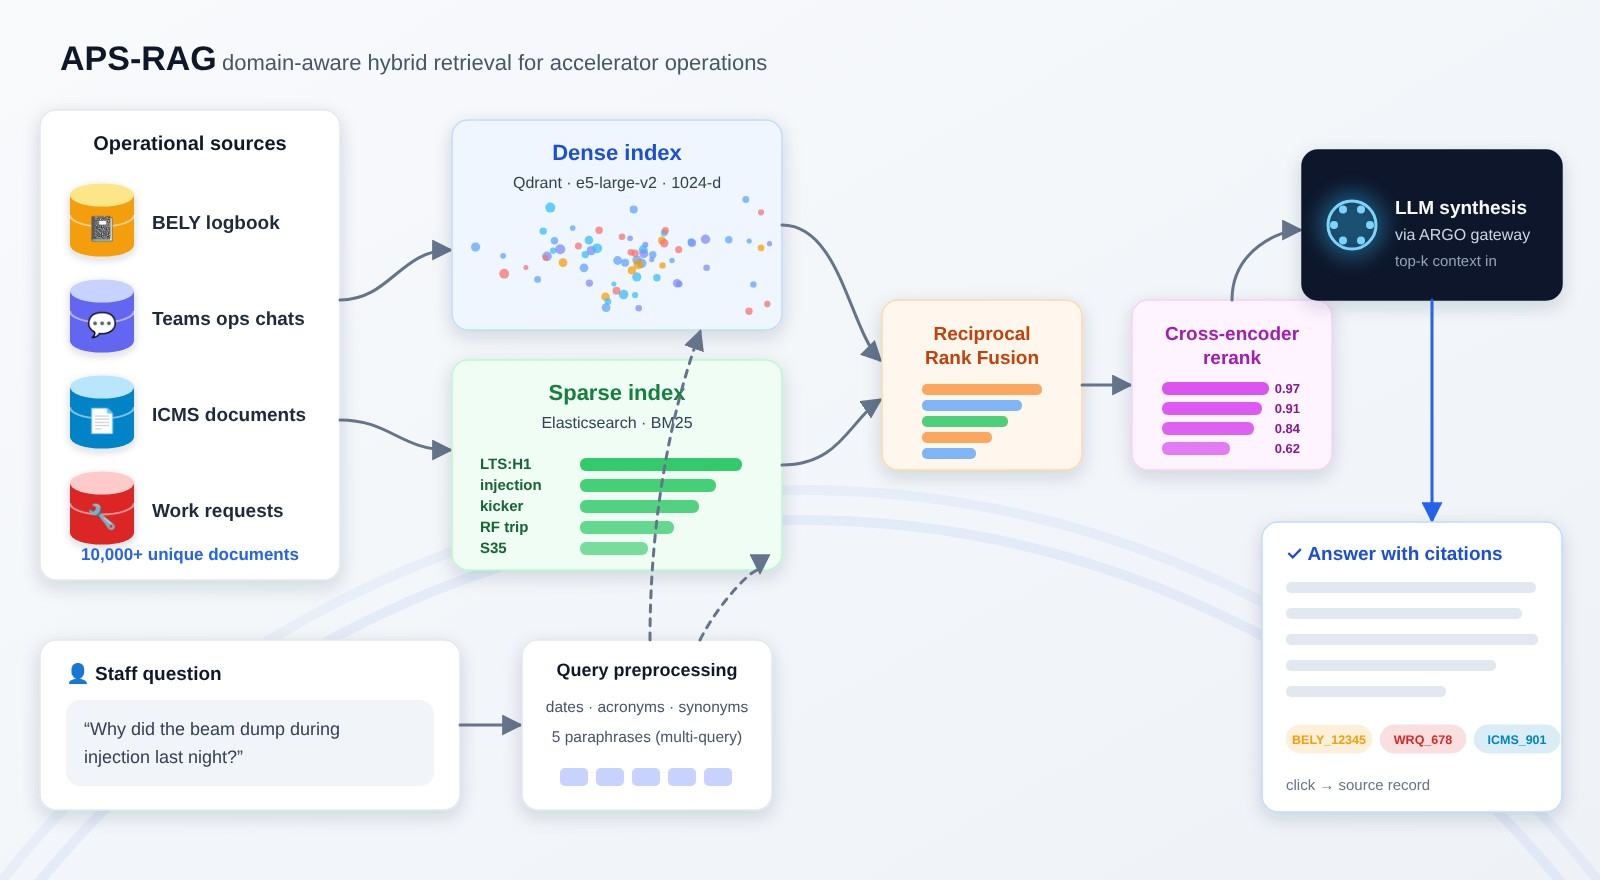
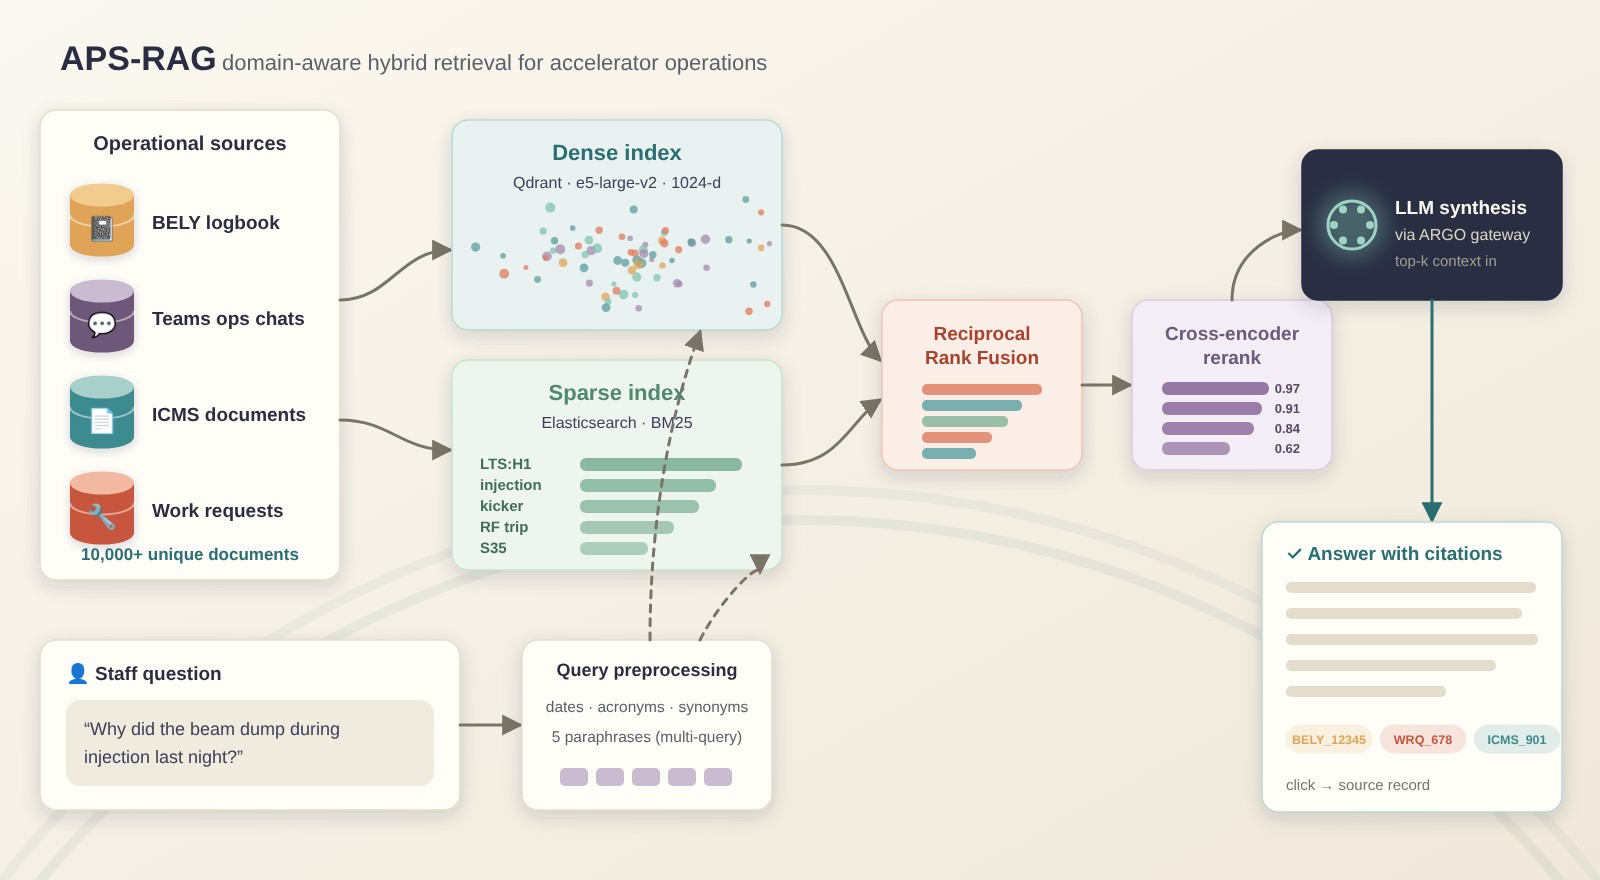
Warm palette for the IPAC'26 illustrations; new NAPAC 2025 thumbnail

diff --git a/index.html b/index.html
@@ -15,7 +15,7 @@
   <link rel="preconnect" href="https://fonts.gstatic.com" crossorigin>
   <link href="https://fonts.googleapis.com/css2?family=Lato:wght@400;700&family=Montserrat:wght@400;500;600;700&display=swap" rel="stylesheet">
   <link rel="stylesheet" href="https://cdnjs.cloudflare.com/ajax/libs/font-awesome/6.5.1/css/all.min.css">
-  <link rel="stylesheet" href="assets/css/style.css?v=r4662">
+  <link rel="stylesheet" href="assets/css/style.css?v=p5040">
 </head>
 <body>
   <div class="page">
@@ -55,7 +55,7 @@
     </main>
   </div>
 
-  <script src="assets/js/data.js?v=r4662"></script>
-  <script src="assets/js/main.js?v=r4662"></script>
+  <script src="assets/js/data.js?v=p5040"></script>
+  <script src="assets/js/main.js?v=p5040"></script>
 </body>
 </html>

diff --git a/tools/ipac26_art.py b/tools/ipac26_art.py
@@ -230,12 +230,138 @@ def pump():
     o.append(T(1405, 680, "Early warning →", 19, 700, "#1d4ed8", "middle") + T(1405, 706, "predictive maintenance", 19, 700, "#1d4ed8", "middle"))
     return f'<svg xmlns="http://www.w3.org/2000/svg" width="{W}" height="{H}" viewBox="0 0 {W} {H}">{DEFS}{"".join(o)}</svg>'
 
+
+# ------------------------------------------------------------------ NAPAC 2025: transformer autoencoder
+def napac():
+    o = [f'<rect width="{W}" height="{H}" fill="url(#bg)"/>']
+    o.append(T(60, 70, "Water-pump vibration monitoring", 34, 800, "#0f172a") + T(612, 70, "low-cost sensors + transformer autoencoder", 22, 400, "#475569"))
+    # --- pump (smaller), sensor on the coupler end
+    g = []
+    g.append('<path d="M20 600 L 520 600 L 490 650 L 0 650 Z" fill="#cbd5e1"/>')
+    g.append('<g filter="url(#sh)">')
+    g.append('<rect x="60" y="560" width="440" height="34" rx="6" fill="#64748b"/>')
+    g.append('<rect x="78" y="380" width="210" height="170" rx="24" fill="url(#motor)"/>')
+    g.extend(f'<rect x="{90+i*24}" y="388" width="9" height="154" rx="4" fill="#1e40af" opacity=".35"/>' for i in range(8))
+    g.append('<rect x="60" y="410" width="26" height="110" rx="9" fill="#1e3a8a"/>')
+    g.append('<rect x="286" y="440" width="66" height="50" rx="8" fill="url(#steel)"/>')
+    g.append('<circle cx="420" cy="465" r="76" fill="url(#volute)"/><circle cx="420" cy="465" r="34" fill="#ea580c" opacity=".5"/>')
+    g.append('<rect x="394" y="335" width="52" height="60" rx="6" fill="url(#steel)"/><rect x="380" y="325" width="80" height="18" rx="5" fill="#94a3b8"/>')
+    g.append('</g>')
+    o.extend(g)
+    # sensor on coupler end + vibration arcs
+    o.append('<g filter="url(#sh2)"><rect x="296" y="404" width="46" height="34" rx="6" fill="#1e293b"/><circle cx="309" cy="421" r="4" fill="#22c55e"/></g>')
+    for r, op in [(24, .5), (38, .3), (52, .16)]:
+        o.append(f'<path d="M{319-r} {421-r*0.2} A{r} {r} 0 0 1 {319+r} {421-r*0.2}" fill="none" stroke="#22c55e" stroke-width="3" stroke-opacity="{op}"/>')
+    o.append(card(70, 125, 300, 92, "#ffffff"))
+    o.append(T(90, 160, "Triaxial MEMS sensor", 19, 700, "#0f172a") + T(90, 188, "on the pump coupler end", 16, 500, "#475569"))
+    o.append(arrow("M260 217 C 280 290 300 350 312 398", dash="6 6"))
+    # Raspberry Pi + cloud
+    o.append('<path d="M342 421 C 380 400 340 700 250 720" fill="none" stroke="#0f172a" stroke-width="4"/>')
+    o.append(card(110, 690, 210, 110, "#ffffff"))
+    o.append('<rect x="130" y="708" width="96" height="62" rx="6" fill="#16a34a"/><rect x="140" y="718" width="30" height="24" rx="3" fill="#0f172a"/>' + "".join(f'<circle cx="{182+i*9}" cy="{722}" r="3" fill="#fde68a"/>' for i in range(5)))
+    o.append(T(236, 735, "Raspberry Pi", 15, 700, "#0f172a") + T(236, 756, "edge node", 14, 500, "#475569"))
+    o.append(T(215, 788, "streams vibration data", 13.5, 500, "#475569", "middle"))
+    o.append('<g transform="translate(400 740)"><circle cx="0" cy="0" r="26" fill="#bae6fd"/><circle cx="28" cy="-10" r="32" fill="#bae6fd"/><circle cx="60" cy="2" r="24" fill="#bae6fd"/><rect x="-4" y="0" width="68" height="26" fill="#bae6fd"/></g>')
+    o.append(T(430, 752, "PC / cloud", 14, 700, "#0f172a", "middle"))
+    o.append(arrow("M320 745 L 372 745"))
+    o.append(arrow("M488 735 C 540 735 560 690 600 680"))
+
+    # --- synthetic faults (top middle)
+    o.append(card(600, 110, 420, 230, "#ffffff"))
+    o.append(T(622, 146, "Physics-based synthetic faults", 19, 700, "#0f172a"))
+    rnd = random.Random(11)
+    rows = [("baseline", "#38bdf8", lambda t: math.sin(t) * 9), ("fault: added 0.5x", "#fb923c", lambda t: math.sin(t) * 9 + math.sin(t / 2) * 9),
+            ("fault: growing 1x", "#ef4444", lambda t: math.sin(t) * (9 + t * 0.35))]
+    for k, (lab, col, fn) in enumerate(rows):
+        y0 = 192 + k * 52
+        d = f"M760 {y0}"
+        for i in range(1, 120):
+            t = i * 0.5
+            d += f" L{760 + i * 2.1:.1f} {y0 - fn(t) - rnd.gauss(0, 1.1):.1f}"
+        o.append(f'<path d="{d}" fill="none" stroke="{col}" stroke-width="2.2"/>' + T(622, y0 + 5, lab, 14.5, 600, "#334155"))
+
+    # --- transformer autoencoder (bottom middle)
+    o.append(arrow("M810 340 L 810 386"))
+    o.append(card(600, 388, 420, 330, "#0f172a", "#0f172a"))
+    o.append(T(810, 424, "Transformer autoencoder", 19, 700, "#f8fafc", "middle") + T(810, 448, "self-attention · sinusoidal position encoding", 14, 500, "#94a3b8", "middle"))
+    def stack(x, title, blocks, col):
+        out = T(x + 70, 486, title, 15, 700, "#e2e8f0", "middle")
+        for i, (b, c) in enumerate(blocks):
+            out += f'<rect x="{x}" y="{500+i*38}" width="140" height="30" rx="7" fill="{c}"/>' + T(x + 70, 520 + i * 38, b, 13, 700, "#0f172a", "middle")
+        return out
+    o.append(stack(628, "Encoder", [("Add & Norm", "#bbf7d0"), ("Feed forward", "#bfdbfe"), ("Add & Norm", "#bbf7d0"), ("Self-attention", "#fed7aa")], "#38bdf8"))
+    o.append(stack(852, "Decoder", [("Add & Norm", "#bbf7d0"), ("Feed forward", "#bfdbfe"), ("Enc-dec attention", "#fed7aa"), ("Self-attention", "#fed7aa")], "#38bdf8"))
+    o.append(arrow("M770 580 L 848 580", col="#94a3b8"))
+    # input window and reconstruction strip
+    d1, d2 = "M630 690", "M818 690"
+    for i in range(1, 80):
+        y = 690 - math.sin(i * 0.45) * 8 - rnd.gauss(0, 1.5)
+        if i < 50: d1 += f" L{630 + i * 3.6:.1f} {y:.1f}"
+        else: d2 += f" L{818 + (i - 50) * 5.6:.1f} {y:.1f}"
+    o.append('<rect x="626" y="672" width="186" height="36" rx="6" fill="#0b1220" stroke="#94a3b8" stroke-dasharray="4 4"/>' + f'<path d="{d1}" fill="none" stroke="#38bdf8" stroke-width="2"/>')
+    o.append('<rect x="814" y="672" width="180" height="36" rx="6" fill="#0b1220" stroke="#22c55e"/>' + f'<path d="{d2}" fill="none" stroke="#22c55e" stroke-width="2"/>')
+    o.append(T(719, 666, "input window", 12, 600, "#94a3b8", "middle") + T(904, 666, "predicted next steps", 12, 600, "#94a3b8", "middle"))
+
+    # --- order spectrum (top right)
+    o.append(arrow("M1020 550 C 1050 550 1050 300 1078 290"))
+    o.append(card(1080, 110, 490, 330, "#ffffff"))
+    o.append(T(1102, 146, "Order spectrum (vdB)", 19, 700, "#0f172a") + T(1548, 146, "1x = 44.4 Hz", 15, 700, "#1d4ed8", "end"))
+    orders = ["0.5x", "1x", "1.5x", "2x", "3x", "4x", "5x"]
+    base = [22, 130, 30, 62, 38, 26, 18]
+    live = [92, 186, 96, 70, 44, 30, 20]
+    for i, (lab, b, l) in enumerate(zip(orders, base, live)):
+        x = 1112 + i * 64
+        o.append(f'<rect x="{x}" y="{400-b}" width="22" height="{b}" rx="4" fill="#94a3b8"/>')
+        o.append(f'<rect x="{x+26}" y="{400-l}" width="22" height="{l}" rx="4" fill="{"#ef4444" if l - b > 30 else "#fb923c"}"/>')
+        o.append(T(x + 24, 424, lab, 13.5, 700, "#334155", "middle"))
+    o.append('<rect x="1340" y="170" width="14" height="14" rx="3" fill="#94a3b8"/>' + T(1360, 182, "baseline", 13.5, 600, "#475569"))
+    o.append('<rect x="1440" y="170" width="14" height="14" rx="3" fill="#ef4444"/>' + T(1460, 182, "live", 13.5, 600, "#475569"))
+    # --- weighted anomaly score (bottom right)
+    o.append(card(1080, 470, 490, 248, "#ffffff"))
+    o.append(T(1102, 506, "Weighted anomaly score", 19, 700, "#0f172a") + T(1548, 506, "wear progression", 14, 500, "#64748b", "end"))
+    o.append('<rect x="1104" y="526" width="442" height="54" fill="#fecaca" opacity=".55"/><rect x="1104" y="580" width="442" height="44" fill="#fde68a" opacity=".55"/><rect x="1104" y="624" width="442" height="66" fill="#bbf7d0" opacity=".55"/>')
+    o.append(T(1112, 545, "alarm", 12.5, 700, "#dc2626") + T(1112, 597, "warning", 12.5, 700, "#d97706") + T(1112, 682, "normal", 12.5, 700, "#16a34a"))
+    d = "M1160 676"
+    for i in range(1, 76):
+        x = 1160 + i * 5
+        y = 676 - 3 * math.exp(i / 17.5) + rnd.gauss(0, 2.2)
+        d += f" L{x} {max(532, y):.1f}"
+    o.append(f'<path d="{d}" fill="none" stroke="#1d4ed8" stroke-width="3" stroke-linejoin="round"/>')
+    o.append(T(1325, 790, "Early fault detection → less downtime", 19, 700, "#1d4ed8", "middle"))
+    return f'<svg xmlns="http://www.w3.org/2000/svg" width="{W}" height="{H}" viewBox="0 0 {W} {H}">{DEFS}{"".join(o)}</svg>'
+
+# Warm editorial palette (ink navy, deep teal, terracotta, mustard, sage, plum on ivory),
+# chosen to sit on the site's cream background. Every colour above is remapped here.
+PALETTE = {
+ "#0f172a": "#2b2d42", "#1e293b": "#2b2d42", "#334155": "#3d405b", "#475569": "#5c5f6b",
+ "#64748b": "#7a7468", "#94a3b8": "#a39d91", "#cbd5e1": "#ddd5c4", "#e2e8f0": "#e4dccd",
+ "#f1f5f9": "#f1ebdf", "#f8fafc": "#fbf8f1", "#eef2f7": "#efe8da", "#ffffff": "#fffdf8",
+ "#0b1220": "#23253a",
+ "#2563eb": "#2a6f73", "#1d4ed8": "#2a6f73", "#60a5fa": "#5a9ea1", "#3b82f6": "#3d8b8f",
+ "#1e3a8a": "#1f4f52", "#1e40af": "#1f4f52", "#0284c7": "#3d8b8f", "#bae6fd": "#a8cfc9",
+ "#bfdbfe": "#b9d8d2", "#eff6ff": "#e9f2f0", "#38bdf8": "#7fc4b2", "#7dd3fc": "#9fd3c4",
+ "#22c55e": "#81b29a", "#16a34a": "#4f8a6e", "#15803d": "#4f8a6e", "#166534": "#3f6f57",
+ "#bbf7d0": "#c9dfd2", "#f0fdf4": "#eef5ef",
+ "#fb923c": "#e07a5f", "#fdba74": "#f2a48a", "#ea580c": "#c8553d", "#c2410c": "#a8432f",
+ "#fff7ed": "#fbeee6", "#fed7aa": "#efc3b3", "#ef4444": "#c8553d", "#dc2626": "#c8553d",
+ "#f87171": "#e07a5f", "#fecaca": "#f2b8a2",
+ "#f59e0b": "#e0a458", "#fde68a": "#f2cc8f", "#d97706": "#b7832f", "#f472b6": "#e0a458",
+ "#a21caf": "#6d597a", "#86198f": "#5b4766", "#d946ef": "#8f6f9e", "#fdf4ff": "#f3eef5",
+ "#f5d0fe": "#d9cbe0", "#6366f1": "#6d597a", "#818cf8": "#a58bb0", "#c7d2fe": "#c9bcd1",
+ # spectrogram colormap (was viridis)
+ "#440154": "#2b2d42", "#3b528b": "#6d597a", "#21918c": "#b56576", "#5ec962": "#e07a5f", "#fde725": "#f2cc8f",
+}
+
+def recolor(svg):
+    import re
+    return re.sub(r"#[0-9a-fA-F]{6}\b", lambda m: PALETTE.get(m.group(0).lower(), m.group(0)), svg)
+
 if __name__ == "__main__":
     import sys
     from playwright.sync_api import sync_playwright
     out = sys.argv[1]
     with sync_playwright() as p:
         b = p.chromium.launch(); pg = b.new_page(viewport={"width": W, "height": H}, device_scale_factor=1)
-        for name, svg in [("ipac26_apsrag", aps_rag()), ("ipac26_pumps", pump())]:
+        for name, svg in [("ipac26_apsrag", recolor(aps_rag())), ("ipac26_pumps", recolor(pump())), ("napac2025_art", recolor(napac()))]:
             pg.set_content(f'<html><body style="margin:0">{svg}</body></html>'); pg.wait_for_timeout(200)
             pg.screenshot(path=f"{out}/{name}.png", clip={"x": 0, "y": 0, "width": W, "height": H}); print("rendered", name)
